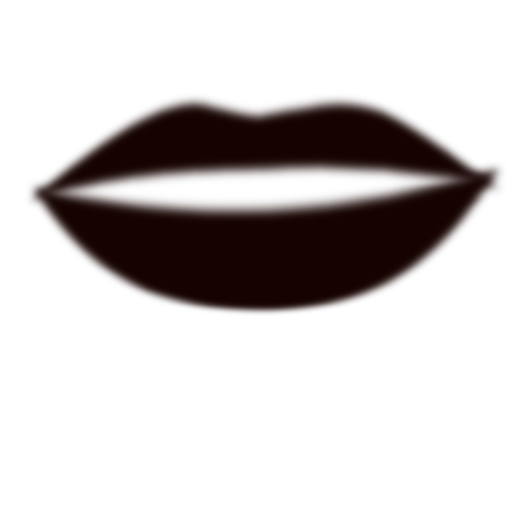
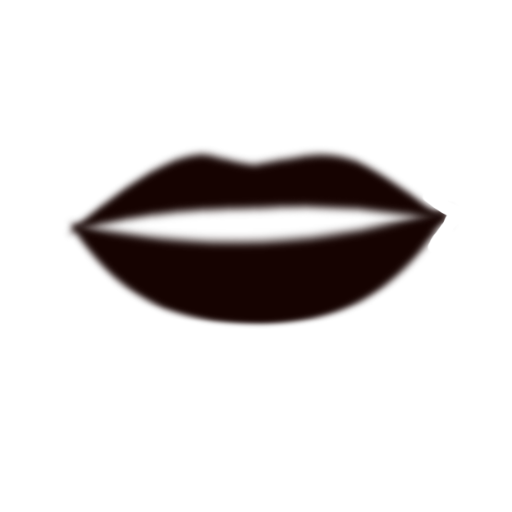
исправление наложения губ новый детектор лица

Changed region(s): [[0.0625, 0.1875, 1.0, 0.6562]]

diff --git a/src/ru/flightlabs/makeup/activity/ActivityMakeUp.java b/src/ru/flightlabs/makeup/activity/ActivityMakeUp.java
@@ -4,6 +4,7 @@ import android.app.Activity;
 import android.content.Context;
 import android.content.Intent;
 import android.content.res.TypedArray;
+import android.graphics.Color;
 import android.graphics.PixelFormat;
 import android.opengl.GLSurfaceView;
 import android.os.Bundle;
@@ -17,6 +18,7 @@ import android.widget.CompoundButton;
 import android.widget.ImageView;
 import android.widget.ProgressBar;
 import android.widget.SeekBar;
+import android.widget.TextView;
 
 import org.opencv.android.BaseLoaderCallback;
 import org.opencv.android.LoaderCallbackInterface;
@@ -31,6 +33,7 @@ import ru.flightlabs.makeup.adapter.CategoriesNamePagerAdapter;
 import ru.flightlabs.makeup.adapter.CategoriesNewAdapter;
 import ru.flightlabs.makeup.adapter.ColorsNewPagerAdapter;
 import ru.flightlabs.makeup.adapter.ColorsPagerAdapter;
+import ru.flightlabs.makeup.adapter.TextNewPagerAdapter;
 import ru.flightlabs.makeup.shader.ShaderEffectMakeUp;
 import ru.flightlabs.masks.CompModel;
 import ru.flightlabs.masks.ModelLoaderTask;
@@ -82,6 +85,7 @@ public class ActivityMakeUp extends Activity implements AdaptersNotifier, ModelL
                     // load cascade file from application resources
                     if (Static.LOG_MODE) Log.e(TAG, "findLandMarks onManagerConnected");
                     compModel.loadHaarModel(Static.resourceDetector[0]);
+                    compModel.load3lbpModels(R.raw.lbp_frontal_face, R.raw.lbp_left_face, R.raw.lbp_right_face);
                 }
                 break;
                 default: {
@@ -117,10 +121,27 @@ public class ActivityMakeUp extends Activity implements AdaptersNotifier, ModelL
                 cameraView.swapCamera();
             }
         });
-        ViewPager viewPagerCategories = (ViewPager) findViewById(R.id.categories);
-        CategoriesNamePagerAdapter pagerCategories = new CategoriesNamePagerAdapter(this, getResources().getStringArray(R.array.categories));
+        final EcoGallery viewPagerCategories = (EcoGallery) findViewById(R.id.categories);
+        final TextNewPagerAdapter pagerCategories = new TextNewPagerAdapter(this, getResources().getStringArray(R.array.categories));
         pagerCategories.selected = StateEditor.FASHION;
         viewPagerCategories.setAdapter(pagerCategories);
+        viewPagerCategories.setSelection(StateEditor.FASHION);
+        viewPagerCategories.setOnItemSelectedListener(new EcoGalleryAdapterView.OnItemSelectedListener() {
+            @Override
+            public void onItemSelected(EcoGalleryAdapterView<?> parent, View view, final int position, long id) {
+                //mContext.getResources().getColor(R.color.main_text)
+                //pagerCategories.current.setTextColor(Color.BLACK);
+                pagerCategories.selected = position;
+                selectedCategory(position);
+                //((TextView)view.findViewById(R.id.item_text)).setTextColor(Color.RED);
+                // set color
+            }
+
+            @Override
+            public void onNothingSelected(EcoGalleryAdapterView<?> parent) {
+
+            }
+        });
 
         editorEnvironment = new StateEditor(getApplication().getApplicationContext(), resourcesApp);
         editorEnvironment.init();

diff --git a/src/ru/flightlabs/makeup/adapter/TextNewPagerAdapter.java b/src/ru/flightlabs/makeup/adapter/TextNewPagerAdapter.java
@@ -1,0 +1,61 @@
+package ru.flightlabs.makeup.adapter;
+
+import android.content.Context;
+import android.graphics.Color;
+import android.util.TypedValue;
+import android.view.LayoutInflater;
+import android.view.View;
+import android.view.ViewGroup;
+import android.widget.BaseAdapter;
+import android.widget.TextView;
+
+import ru.flightlabs.makeup.R;
+import ru.flightlabs.makeup.activity.ActivityMakeUp;
+
+/**
+ * Created by sov on 26.04.2017.
+ */
+
+public class TextNewPagerAdapter extends BaseAdapter {
+    public int selected;
+    private String[] textNames;
+    LayoutInflater mLayoutInflater;
+    public TextView current;
+    Context mContext;
+
+    public TextNewPagerAdapter(ActivityMakeUp activityMakeUp, String[] textNames) {
+        mLayoutInflater = (LayoutInflater) activityMakeUp.getSystemService(Context.LAYOUT_INFLATER_SERVICE);
+        this.textNames = textNames;
+        mContext = activityMakeUp;
+    }
+
+    @Override
+    public int getCount() {
+        return textNames.length;
+    }
+
+    @Override
+    public Object getItem(int i) {
+        return i;
+    }
+
+    @Override
+    public long getItemId(int i) {
+        return i;
+    }
+
+    @Override
+    public View getView(int position, View view, ViewGroup viewGroup) {
+        View itemView = mLayoutInflater.inflate(R.layout.item_effect, null, false);
+        TextView imageView = (TextView) itemView.findViewById(R.id.item_text);
+        imageView.setTextSize(TypedValue.COMPLEX_UNIT_SP, 14); // FIXME resource
+        if (position == selected) {
+            imageView.setTextColor(mContext.getResources().getColor(R.color.selected_text));
+            current = imageView;
+        } else {
+            imageView.setTextColor(mContext.getResources().getColor(R.color.main_text));
+        }
+        imageView.setText(textNames[position]);
+        return itemView;
+    }
+}

diff --git a/src/ru/flightlabs/makeup/shader/ShaderEffectMakeUp.java b/src/ru/flightlabs/makeup/shader/ShaderEffectMakeUp.java
@@ -130,6 +130,10 @@ public class ShaderEffectMakeUp extends ShaderEffect {
             Point[] onImageLips = ModelUtils.getOnlyPoints(poseResult.foundLandmarks, 48, 20);
             Point[] onImageLipsConv = PointsConverter.completePointsByAffine(onImageLips, PointsConverter.convertToOpencvPoints(StateEditor.pointsWasLipsNew), new int[]{0, 1, 2, 3, 4, 5, 6, 7, 8, 9, 10, 11, 12, 13, 14, 15, 16, 17, 18, 19});
             onImageLipsConv = PointsConverter.replacePoints(onImageLipsConv, onImageLips, new int[]{0, 1, 2, 3, 4, 5, 6, 7, 8, 9, 10, 11, 12, 13, 14, 15, 16, 17, 18, 19});
+            onImageLipsConv[24] = avg(onImageLipsConv, 13, 19);
+            onImageLipsConv[25] = avg(onImageLipsConv, 14, 18);
+            onImageLipsConv[26] = avg(onImageLipsConv, 15, 17);
+
             float alphaLips = 1;
             // workaround
             if (editEnv.getColorIndex() == 0) {
@@ -142,6 +146,22 @@ public class ShaderEffectMakeUp extends ShaderEffect {
 
             // FIXME elements erase each other
         }
+    }
+
+    private static Point avg(Point[] onImageLipsConv, int i, int i1) {
+        Point p1 = onImageLipsConv[i];
+        Point p2 = onImageLipsConv[i1];
+        Point avg = new Point((p1.x + p2.x) / 2, (p1.y + p2.y) / 2);
+        double dist = len(p1, p2);
+        if (dist < 10) {
+            onImageLipsConv[i] = avg;
+            onImageLipsConv[i1] = avg;
+        }
+        return avg;
+    }
+
+    private static double len(Point p1, Point p2) {
+        return Math.sqrt(Math.pow(p1.x - p2.x, 2) + Math.pow(p1.y - p2.y, 2));
     }
 
     private int[] setSignShadow(int[] eyeShadowTextureId, int[] eyeShadowTextureIdWas) {
